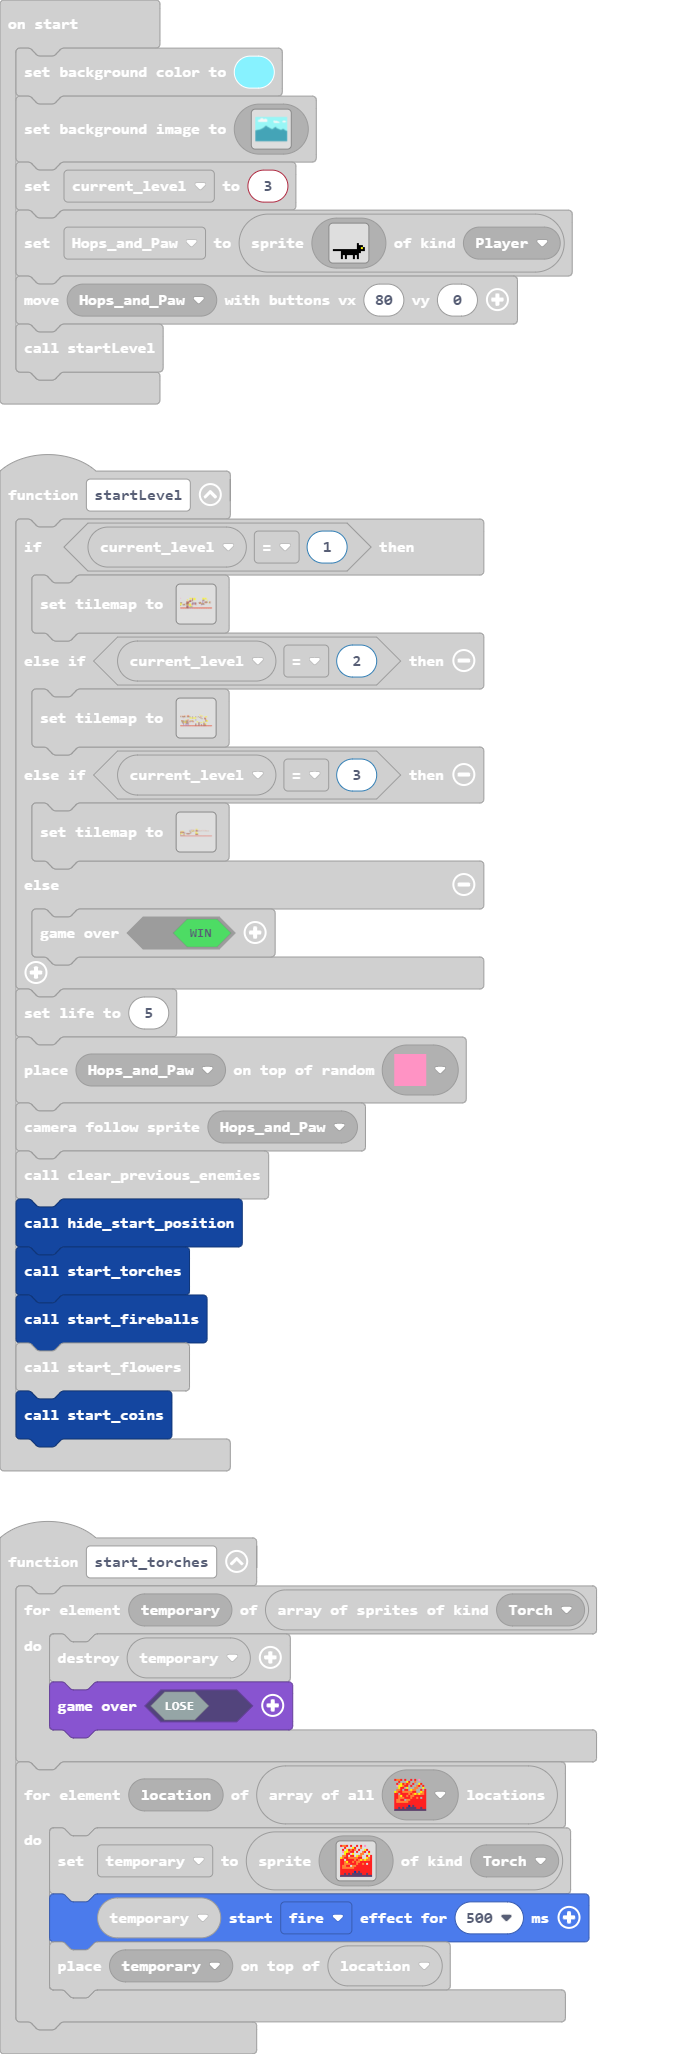
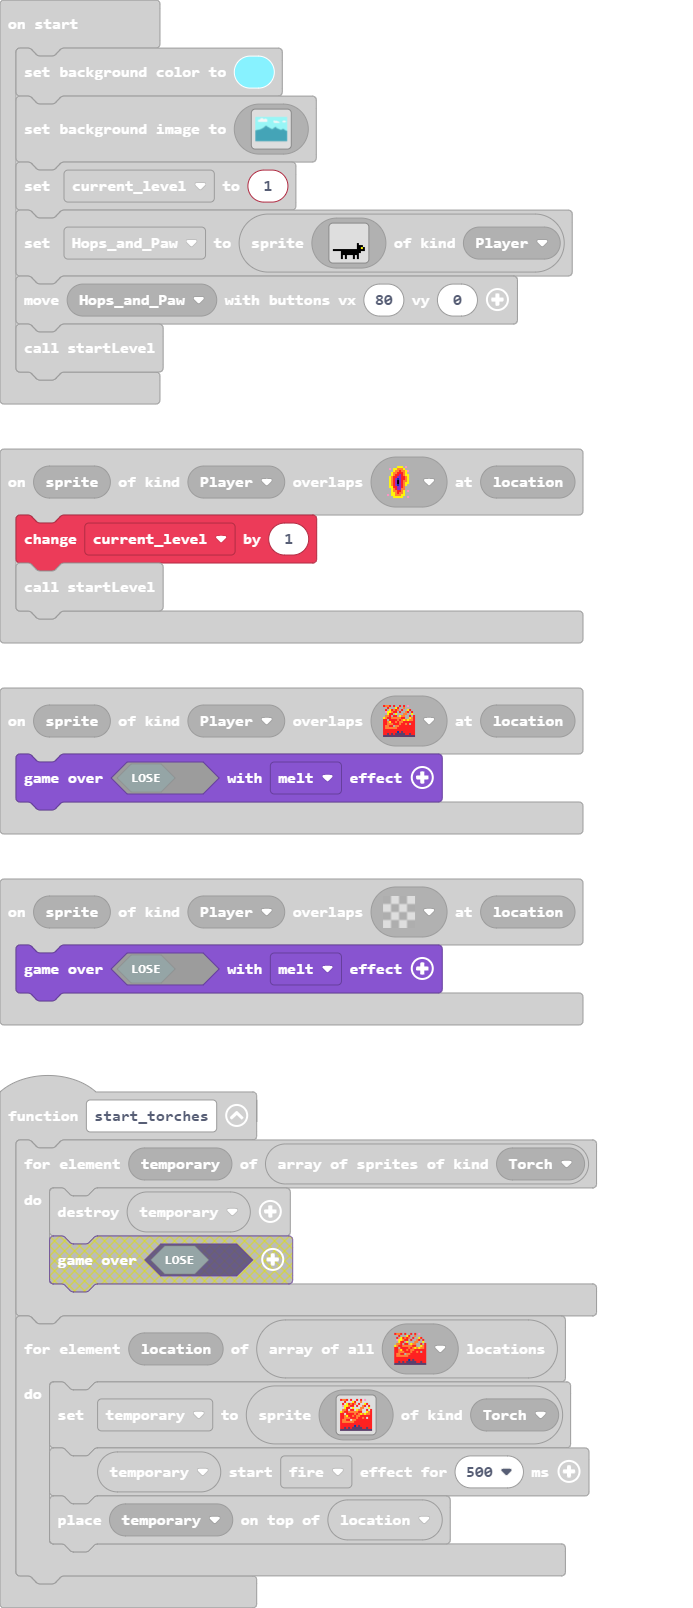
debugging the debugger

diff --git a/main.ts b/main.ts
@@ -88,7 +88,6 @@ function hide_start_position () {
 function start_torches () {
     for (let temporary of sprites.allOfKind(SpriteKind.Torch)) {
         temporary.destroy()
-        game.over(false)
     }
     for (let location of tiles.getTilesByType(assets.tile`tile3`)) {
         temporary = sprites.create(img`
@@ -711,7 +710,7 @@ scene.setBackgroundImage(img`
     6666666666666666666666666666666666666666666666666666666666666666666666666666666666666666666666666666666666666666666666666666666666666666666666666666666666666666
     6666666666666666666666666666666666666666666666666666666666666666666666666666666666666666666666666666666666666666666666666666666666666666666666666666666666666666
     `)
-current_level = 3
+current_level = 1
 Hops_and_Paw = sprites.create(img`
     . . . . . . . . . . . . . . . . 
     . . . . . . . . . . . . . . . . 
